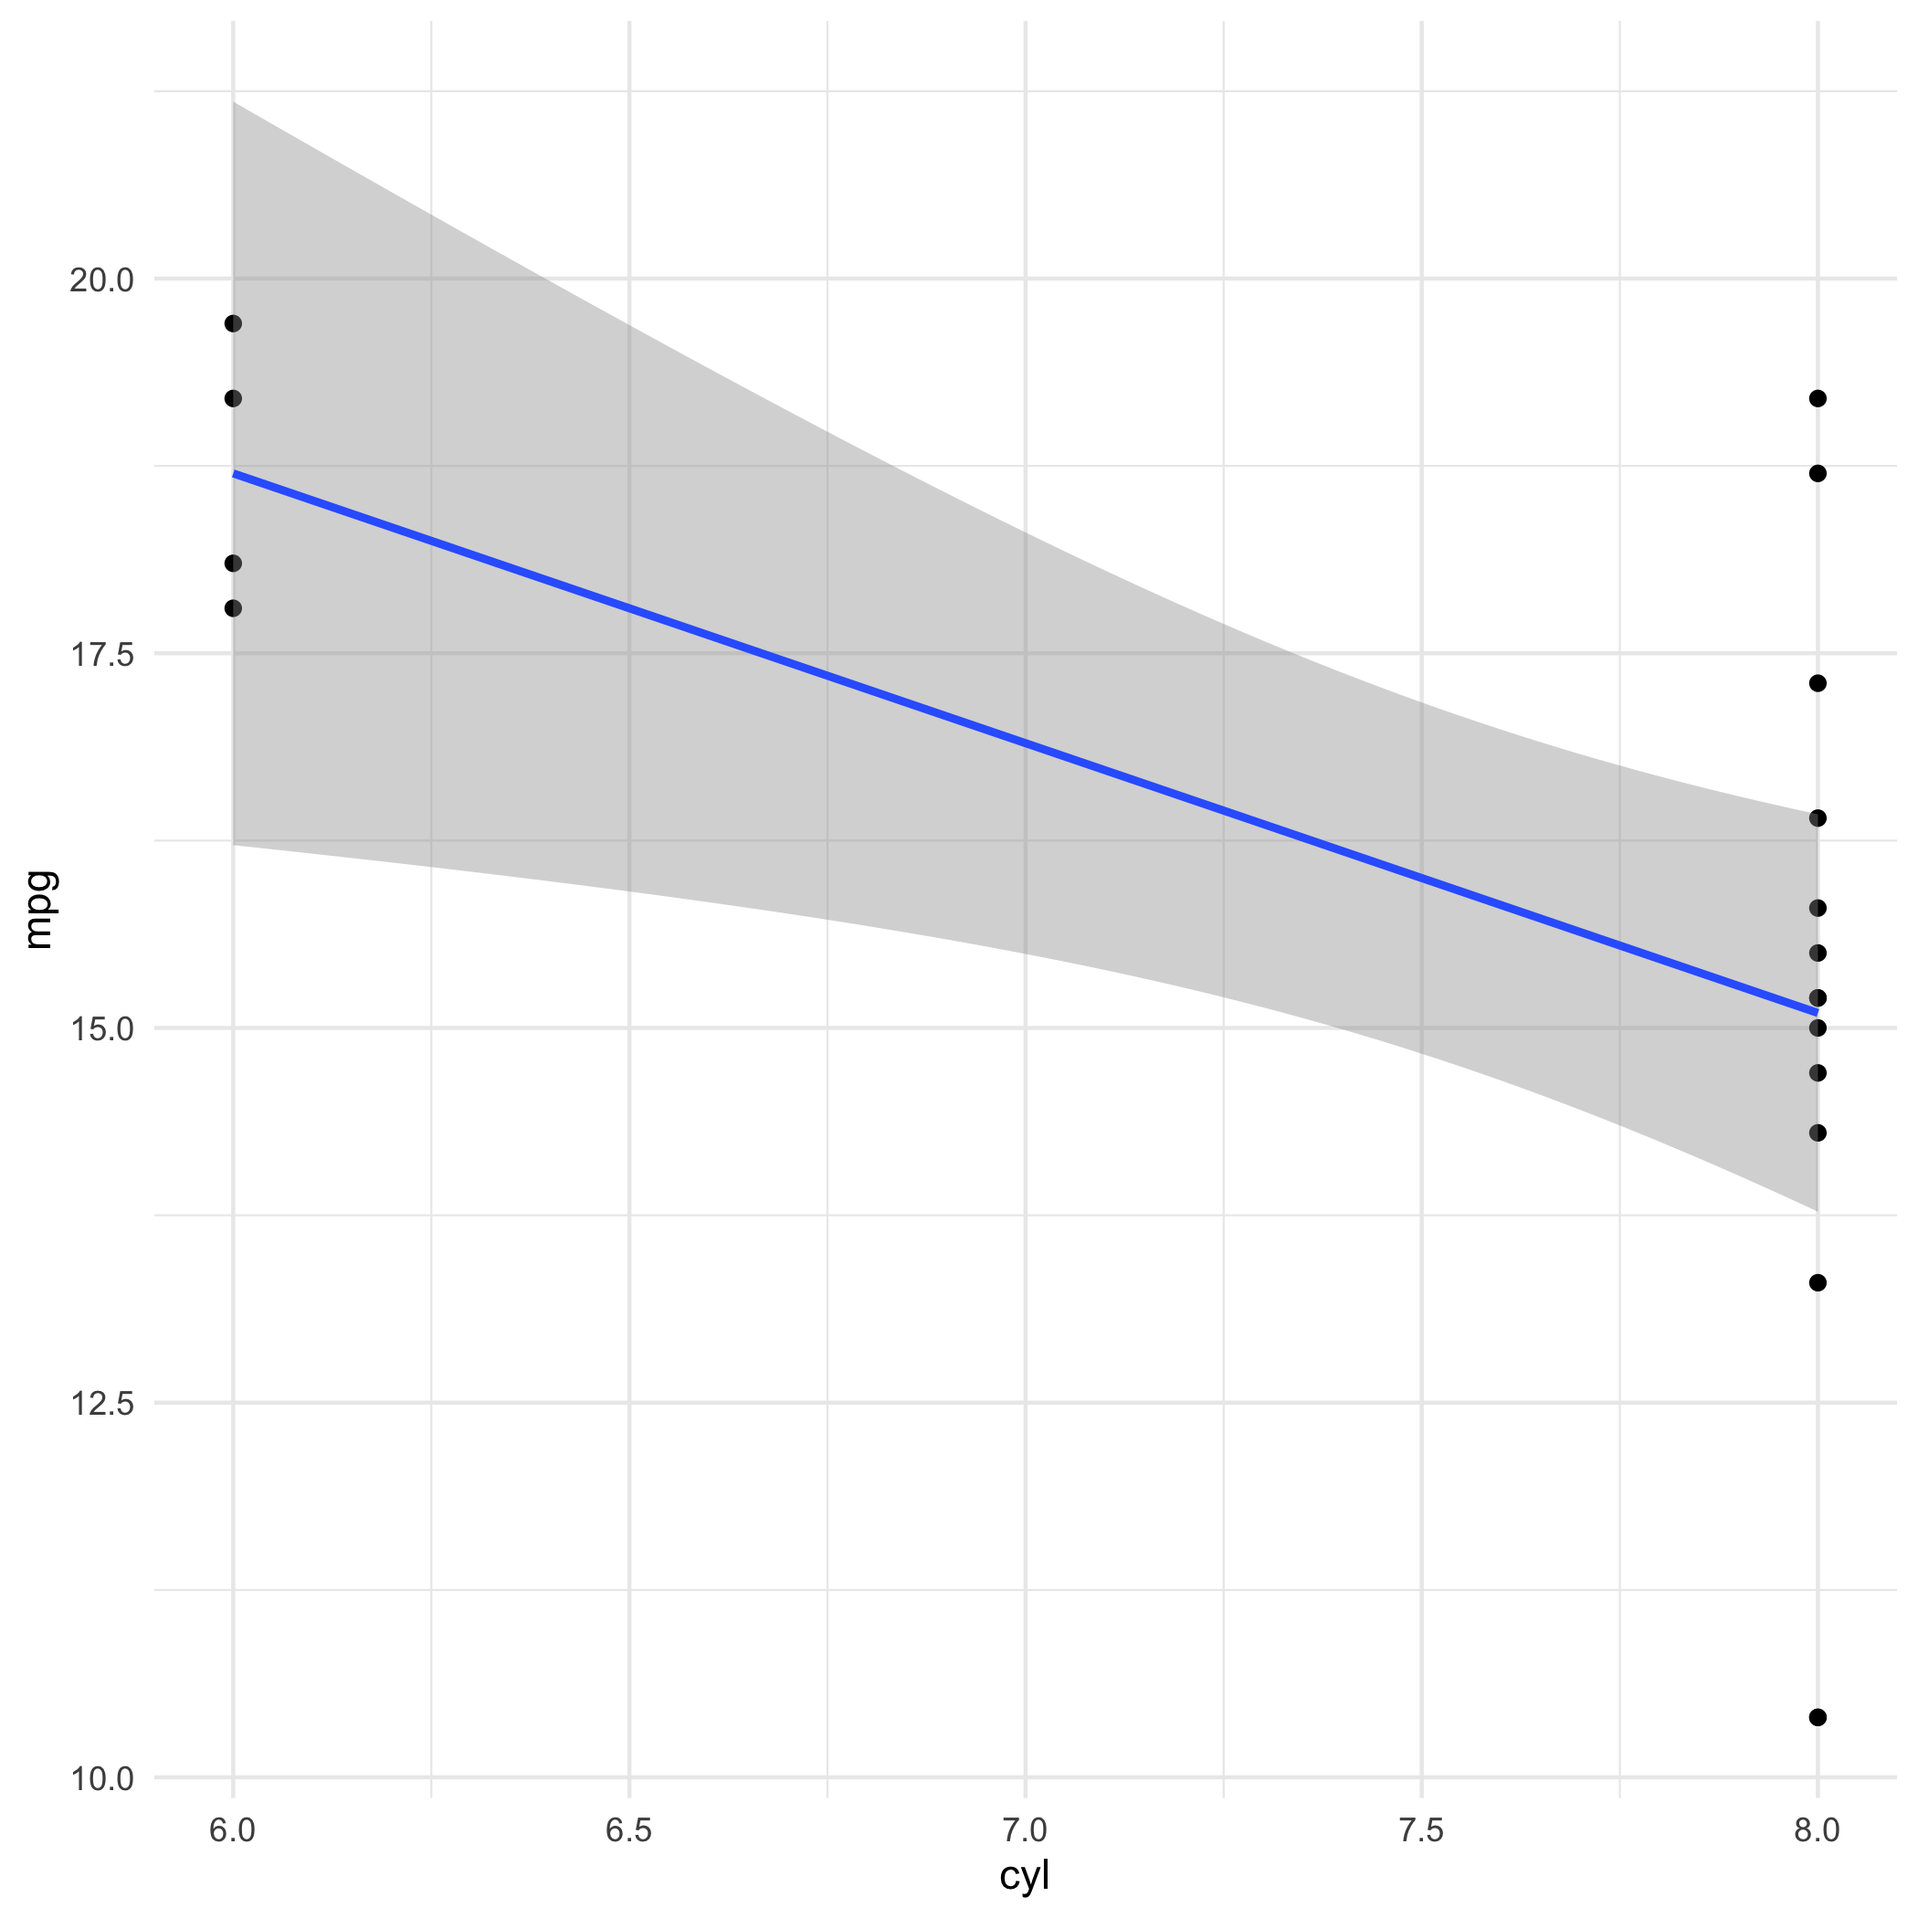
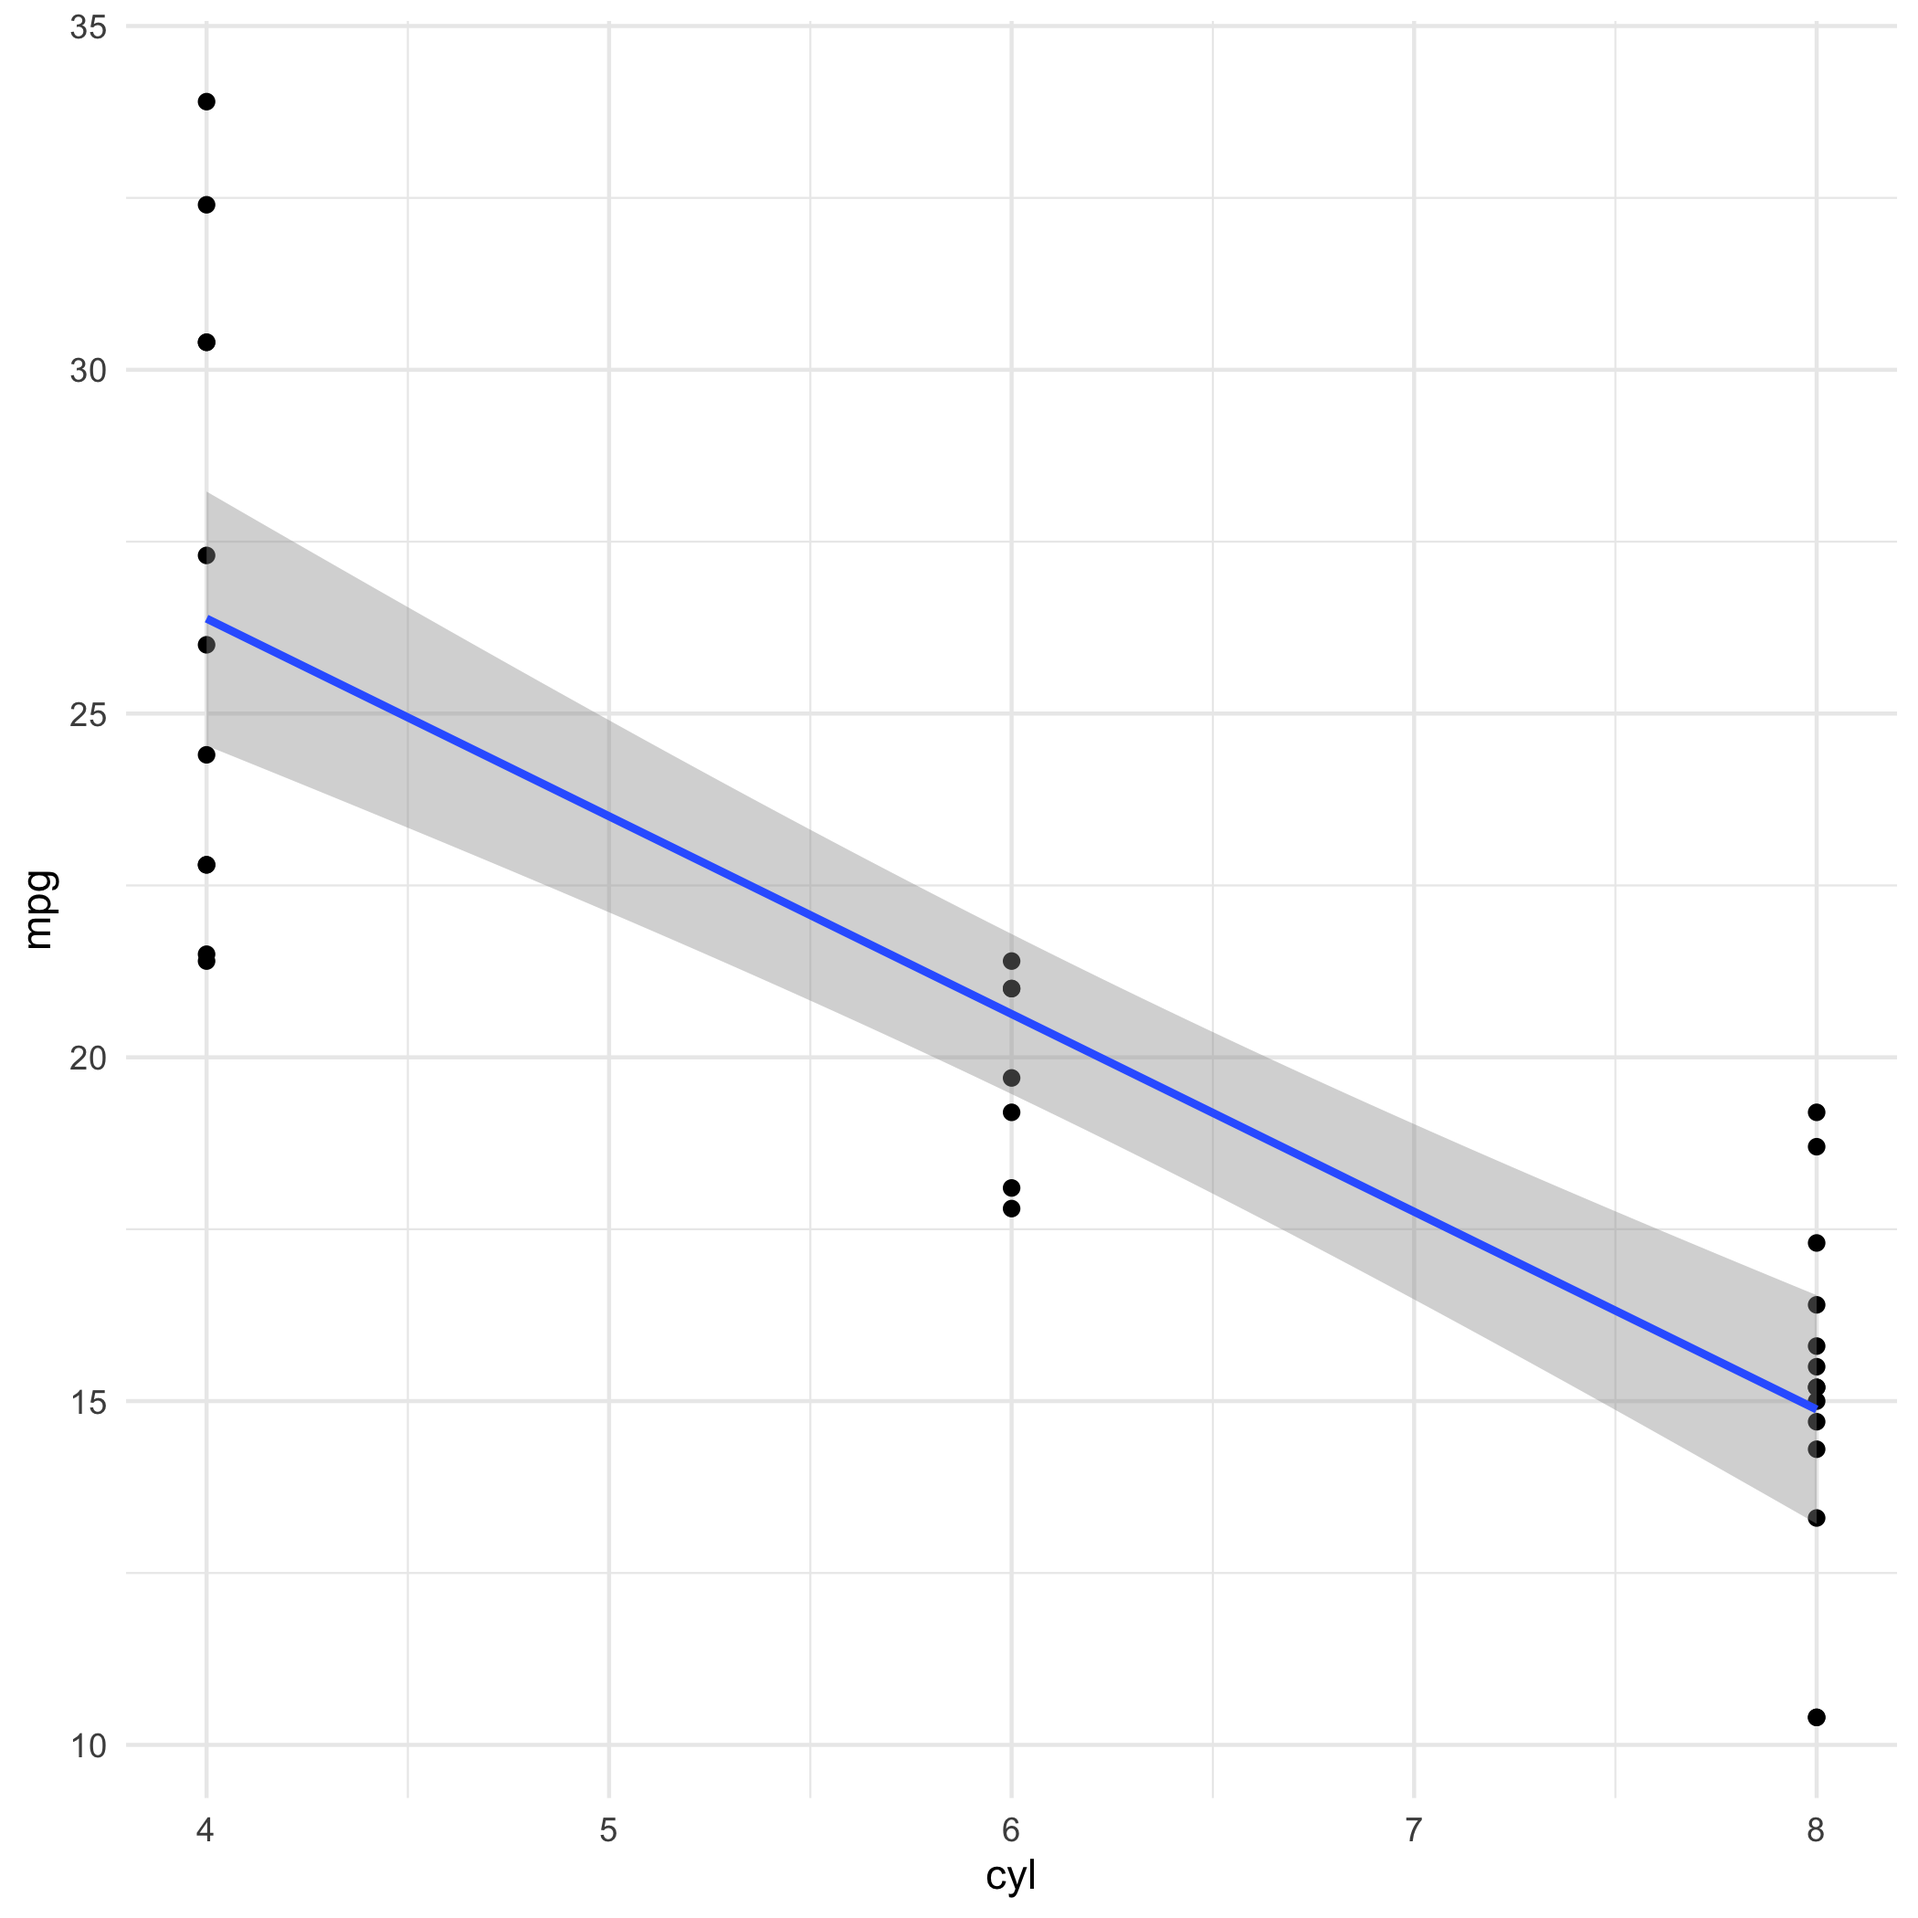
feat: change data pre-processing for example workflow

diff --git a/tables/mtcars_full.tex b/tables/mtcars_full.tex
@@ -1,29 +1,43 @@
 % latex table generated in R 4.2.2 by xtable 1.8-4 package
-% Tue Feb 21 15:02:51 2023
+% Wed Feb 22 16:37:52 2023
 \begin{table}[ht]
 \centering
 \begin{tabular}{rrrrrrrrrrrr}
   \hline
  & mpg & cyl & disp & hp & drat & wt & qsec & vs & am & gear & carb \\ 
   \hline
-1 & 18.70 & 8.00 & 360.00 & 175.00 & 3.15 & 3.44 & 17.02 & 0.00 & 0.00 & 3.00 & 2.00 \\ 
-  2 & 18.10 & 6.00 & 225.00 & 105.00 & 2.76 & 3.46 & 20.22 & 1.00 & 0.00 & 3.00 & 1.00 \\ 
-  3 & 14.30 & 8.00 & 360.00 & 245.00 & 3.21 & 3.57 & 15.84 & 0.00 & 0.00 & 3.00 & 4.00 \\ 
-  4 & 19.20 & 6.00 & 167.60 & 123.00 & 3.92 & 3.44 & 18.30 & 1.00 & 0.00 & 4.00 & 4.00 \\ 
-  5 & 17.80 & 6.00 & 167.60 & 123.00 & 3.92 & 3.44 & 18.90 & 1.00 & 0.00 & 4.00 & 4.00 \\ 
-  6 & 16.40 & 8.00 & 275.80 & 180.00 & 3.07 & 4.07 & 17.40 & 0.00 & 0.00 & 3.00 & 3.00 \\ 
-  7 & 17.30 & 8.00 & 275.80 & 180.00 & 3.07 & 3.73 & 17.60 & 0.00 & 0.00 & 3.00 & 3.00 \\ 
-  8 & 15.20 & 8.00 & 275.80 & 180.00 & 3.07 & 3.78 & 18.00 & 0.00 & 0.00 & 3.00 & 3.00 \\ 
-  9 & 10.40 & 8.00 & 472.00 & 205.00 & 2.93 & 5.25 & 17.98 & 0.00 & 0.00 & 3.00 & 4.00 \\ 
-  10 & 10.40 & 8.00 & 460.00 & 215.00 & 3.00 & 5.42 & 17.82 & 0.00 & 0.00 & 3.00 & 4.00 \\ 
-  11 & 14.70 & 8.00 & 440.00 & 230.00 & 3.23 & 5.34 & 17.42 & 0.00 & 0.00 & 3.00 & 4.00 \\ 
-  12 & 15.50 & 8.00 & 318.00 & 150.00 & 2.76 & 3.52 & 16.87 & 0.00 & 0.00 & 3.00 & 2.00 \\ 
-  13 & 15.20 & 8.00 & 304.00 & 150.00 & 3.15 & 3.44 & 17.30 & 0.00 & 0.00 & 3.00 & 2.00 \\ 
-  14 & 13.30 & 8.00 & 350.00 & 245.00 & 3.73 & 3.84 & 15.41 & 0.00 & 0.00 & 3.00 & 4.00 \\ 
-  15 & 19.20 & 8.00 & 400.00 & 175.00 & 3.08 & 3.85 & 17.05 & 0.00 & 0.00 & 3.00 & 2.00 \\ 
-  16 & 15.80 & 8.00 & 351.00 & 264.00 & 4.22 & 3.17 & 14.50 & 0.00 & 1.00 & 5.00 & 4.00 \\ 
-  17 & 19.70 & 6.00 & 145.00 & 175.00 & 3.62 & 2.77 & 15.50 & 0.00 & 1.00 & 5.00 & 6.00 \\ 
-  18 & 15.00 & 8.00 & 301.00 & 335.00 & 3.54 & 3.57 & 14.60 & 0.00 & 1.00 & 5.00 & 8.00 \\ 
+1 & 21.00 & 6.00 & 160.00 & 110.00 & 3.90 & 2.62 & 16.46 & 0.00 & 1.00 & 4.00 & 4.00 \\ 
+  2 & 21.00 & 6.00 & 160.00 & 110.00 & 3.90 & 2.88 & 17.02 & 0.00 & 1.00 & 4.00 & 4.00 \\ 
+  3 & 22.80 & 4.00 & 108.00 & 93.00 & 3.85 & 2.32 & 18.61 & 1.00 & 1.00 & 4.00 & 1.00 \\ 
+  4 & 21.40 & 6.00 & 258.00 & 110.00 & 3.08 & 3.21 & 19.44 & 1.00 & 0.00 & 3.00 & 1.00 \\ 
+  5 & 18.70 & 8.00 & 360.00 & 175.00 & 3.15 & 3.44 & 17.02 & 0.00 & 0.00 & 3.00 & 2.00 \\ 
+  6 & 18.10 & 6.00 & 225.00 & 105.00 & 2.76 & 3.46 & 20.22 & 1.00 & 0.00 & 3.00 & 1.00 \\ 
+  7 & 14.30 & 8.00 & 360.00 & 245.00 & 3.21 & 3.57 & 15.84 & 0.00 & 0.00 & 3.00 & 4.00 \\ 
+  8 & 24.40 & 4.00 & 146.70 & 62.00 & 3.69 & 3.19 & 20.00 & 1.00 & 0.00 & 4.00 & 2.00 \\ 
+  9 & 22.80 & 4.00 & 140.80 & 95.00 & 3.92 & 3.15 & 22.90 & 1.00 & 0.00 & 4.00 & 2.00 \\ 
+  10 & 19.20 & 6.00 & 167.60 & 123.00 & 3.92 & 3.44 & 18.30 & 1.00 & 0.00 & 4.00 & 4.00 \\ 
+  11 & 17.80 & 6.00 & 167.60 & 123.00 & 3.92 & 3.44 & 18.90 & 1.00 & 0.00 & 4.00 & 4.00 \\ 
+  12 & 16.40 & 8.00 & 275.80 & 180.00 & 3.07 & 4.07 & 17.40 & 0.00 & 0.00 & 3.00 & 3.00 \\ 
+  13 & 17.30 & 8.00 & 275.80 & 180.00 & 3.07 & 3.73 & 17.60 & 0.00 & 0.00 & 3.00 & 3.00 \\ 
+  14 & 15.20 & 8.00 & 275.80 & 180.00 & 3.07 & 3.78 & 18.00 & 0.00 & 0.00 & 3.00 & 3.00 \\ 
+  15 & 10.40 & 8.00 & 472.00 & 205.00 & 2.93 & 5.25 & 17.98 & 0.00 & 0.00 & 3.00 & 4.00 \\ 
+  16 & 10.40 & 8.00 & 460.00 & 215.00 & 3.00 & 5.42 & 17.82 & 0.00 & 0.00 & 3.00 & 4.00 \\ 
+  17 & 14.70 & 8.00 & 440.00 & 230.00 & 3.23 & 5.34 & 17.42 & 0.00 & 0.00 & 3.00 & 4.00 \\ 
+  18 & 32.40 & 4.00 & 78.70 & 66.00 & 4.08 & 2.20 & 19.47 & 1.00 & 1.00 & 4.00 & 1.00 \\ 
+  19 & 30.40 & 4.00 & 75.70 & 52.00 & 4.93 & 1.61 & 18.52 & 1.00 & 1.00 & 4.00 & 2.00 \\ 
+  20 & 33.90 & 4.00 & 71.10 & 65.00 & 4.22 & 1.83 & 19.90 & 1.00 & 1.00 & 4.00 & 1.00 \\ 
+  21 & 21.50 & 4.00 & 120.10 & 97.00 & 3.70 & 2.46 & 20.01 & 1.00 & 0.00 & 3.00 & 1.00 \\ 
+  22 & 15.50 & 8.00 & 318.00 & 150.00 & 2.76 & 3.52 & 16.87 & 0.00 & 0.00 & 3.00 & 2.00 \\ 
+  23 & 15.20 & 8.00 & 304.00 & 150.00 & 3.15 & 3.44 & 17.30 & 0.00 & 0.00 & 3.00 & 2.00 \\ 
+  24 & 13.30 & 8.00 & 350.00 & 245.00 & 3.73 & 3.84 & 15.41 & 0.00 & 0.00 & 3.00 & 4.00 \\ 
+  25 & 19.20 & 8.00 & 400.00 & 175.00 & 3.08 & 3.85 & 17.05 & 0.00 & 0.00 & 3.00 & 2.00 \\ 
+  26 & 27.30 & 4.00 & 79.00 & 66.00 & 4.08 & 1.94 & 18.90 & 1.00 & 1.00 & 4.00 & 1.00 \\ 
+  27 & 26.00 & 4.00 & 120.30 & 91.00 & 4.43 & 2.14 & 16.70 & 0.00 & 1.00 & 5.00 & 2.00 \\ 
+  28 & 30.40 & 4.00 & 95.10 & 113.00 & 3.77 & 1.51 & 16.90 & 1.00 & 1.00 & 5.00 & 2.00 \\ 
+  29 & 15.80 & 8.00 & 351.00 & 264.00 & 4.22 & 3.17 & 14.50 & 0.00 & 1.00 & 5.00 & 4.00 \\ 
+  30 & 19.70 & 6.00 & 145.00 & 175.00 & 3.62 & 2.77 & 15.50 & 0.00 & 1.00 & 5.00 & 6.00 \\ 
+  31 & 15.00 & 8.00 & 301.00 & 335.00 & 3.54 & 3.57 & 14.60 & 0.00 & 1.00 & 5.00 & 8.00 \\ 
+  32 & 21.40 & 4.00 & 121.00 & 109.00 & 4.11 & 2.78 & 18.60 & 1.00 & 1.00 & 4.00 & 2.00 \\ 
    \hline
 \end{tabular}
 \caption{MTCars dataset restricted to observations with $<20$ miles per gallon \label{tab:mtcars_full}} 
